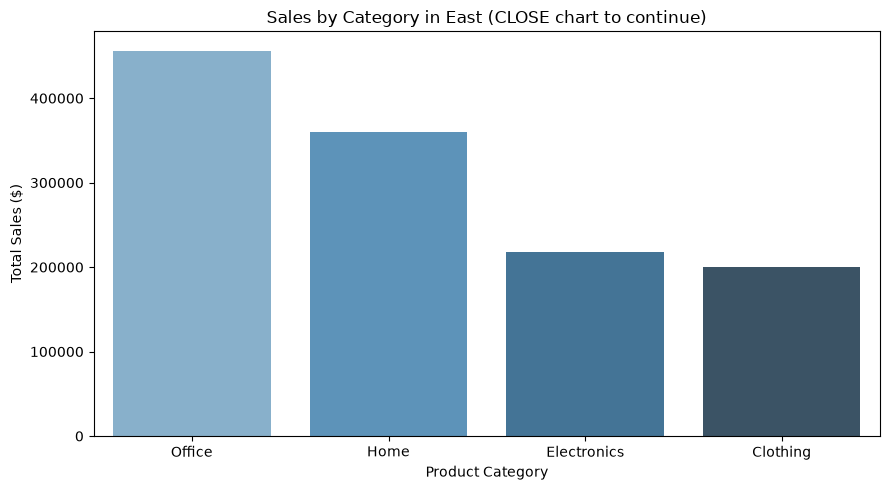
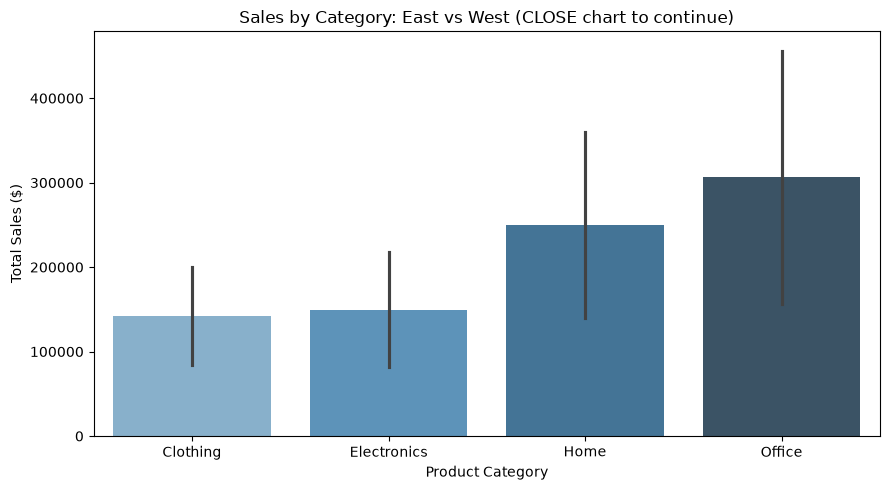
Modify storytelling example to compare two regions

diff --git a/src/bizintel/storytelling_modi_case.py b/src/bizintel/storytelling_modi_case.py
@@ -87,8 +87,8 @@ STORYTELLING_CHART_FILE_2: Final[Path] = (
 
 # The selected region defines the focus of this example story.
 # Your category and selection will depend on the question you have selected.
-SELECTED_REGION: Final[str] = "East"
-
+SELECTED_REGION_1: Final[str] = "East"
+SELECTED_REGION_2: Final[str] = "West"
 
 # === Section 2. Define Reusable Functions ===
 
@@ -188,7 +188,8 @@ def load_reporting_data(file_path: Path) -> pd.DataFrame:
 
 def summarize_category_sales(
     df_reporting: pd.DataFrame,
-    selected_region: str,
+    selected_region_1: str,
+    selected_region_2: str,
 ) -> pd.DataFrame:
     """Summarize total sales by category for the selected region.
 
@@ -202,7 +203,10 @@ def summarize_category_sales(
     Returns:
         DataFrame with Category and TotalSales columns.
     """
-    LOG.info(f"Summarizing category sales for Region = {selected_region!r}")
+    LOG.info(
+        f"Summarizing category sales for Regions = "
+        f"{selected_region_1!r} and {selected_region_2!r}"
+    )
 
     # A slice focuses the analysis on one selected Region value.
     # Create a new DataFrame with only the rows for the selected region.
@@ -210,10 +214,9 @@ def summarize_category_sales(
     # to filter the rows where the "Region" column matches the selected region.
     # Call the .copy() method to create a new DataFrame
     # that is independent of the original.
-    df_region: pd.DataFrame = df_reporting.loc[
-        df_reporting["Region"] == selected_region
+    df_region = df_reporting.loc[
+        df_reporting["Region"].isin([selected_region_1, selected_region_2])
     ].copy()
-
     # If the slice is empty, raise an error to indicate that the selected region
     # we are interested in does not exist in the reporting data.
     # Note: This error message uses an f-string with the
@@ -222,8 +225,8 @@ def summarize_category_sales(
     # more information.
     if df_region.empty:
         raise ValueError(
-            f"No sales were found for region {selected_region!r}. "
-            "Update SELECTED_REGION to a region present in the data."
+            f"No sales were found for regions "
+            f"{selected_region_1!r} and {selected_region_2!r}."
         )
 
     # After filtering to the slice we want to study,
@@ -275,12 +278,9 @@ def summarize_category_sales(
 
     # FOCUS ON THE HUMAN LEVEL SKILLS and
     # use tools to help with the implementation.
-    df_category_sales: pd.DataFrame = (
-        df_region.groupby("Category", as_index=False)
-        .agg(TotalSales=("SaleAmount", "sum"))
-        .sort_values("TotalSales", ascending=False)
+    df_category_sales = df_region.groupby(["Region", "Category"], as_index=False).agg(
+        TotalSales=("SaleAmount", "sum")
     )
-
     # MAKE PRESENTABLE.
     # Round the TotalSales column to two decimal places for better readability.
     # How many digits depends on your data.
@@ -327,7 +327,7 @@ def select_top_category(df_category_sales: pd.DataFrame) -> str:
     #
     # Then, wrap the result in the built in Python method str()
     # to ensure the selected value is stored as a string.
-    top_category: str = str(df_category_sales.iloc[0]["Category"])
+    top_category = df_category_sales.groupby("Category")["TotalSales"].sum().idxmax()
 
     # FINALLY, log key information before exiting the function.
     # In this case, log the selected leading category.
@@ -342,7 +342,8 @@ def select_top_category(df_category_sales: pd.DataFrame) -> str:
 
 def summarize_monthly_sales(
     df_reporting: pd.DataFrame,
-    selected_region: str,
+    selected_region_1: str,
+    selected_region_2: str,
     selected_category: str,
 ) -> pd.DataFrame:
     """Summarize monthly sales for one region and category.
@@ -358,12 +359,15 @@ def summarize_monthly_sales(
     Returns:
         DataFrame with YearMonth and TotalSales columns.
     """
-    LOG.info(f"Summarizing monthly sales for Region = {selected_region!r}")
+    LOG.info(
+        f"Summarizing monthly sales for Regions = "
+        f"{selected_region_1!r} and {selected_region_2!r}"
+    )
     LOG.info(f"Summarizing monthly sales for Category = {selected_category!r}")
 
     # A dice focuses on the selected Region and Category values.
     df_selected: pd.DataFrame = df_reporting.loc[
-        (df_reporting["Region"] == selected_region)
+        (df_reporting["Region"].isin([selected_region_1, selected_region_2]))
         & (df_reporting["Category"] == selected_category)
     ].copy()
 
@@ -400,7 +404,8 @@ def summarize_monthly_sales(
 def identify_key_results(
     df_category_sales: pd.DataFrame,
     df_monthly_sales: pd.DataFrame,
-    selected_region: str,
+    selected_region_1: str,
+    selected_region_2: str,
 ) -> None:
     """Identify and log the key factual results from the analysis.
 
@@ -410,18 +415,24 @@ def identify_key_results(
     limitation, and recommendation in docs/index.md.
 
     Args:
-        df_category_sales: Total sales by category in the selected region.
+        df_category_sales: Total sales by category across the selected regions.
         df_monthly_sales: Monthly sales for the selected leading category.
-        selected_region: Region represented in the analysis.
+        selected_region_1: First region represented in the analysis.
+        selected_region_2: Second region represented in the analysis.
 
     Returns:
         None
     """
     LOG.info("Identifying key results")
-
     # The category results are sorted from greatest to least total sales.
-    top_category: str = str(df_category_sales.iloc[0]["Category"])
-    top_category_sales: float = float(df_category_sales.iloc[0]["TotalSales"])
+    top_category_summary = (
+        df_category_sales.groupby("Category", as_index=False)
+        .agg(TotalSales=("TotalSales", "sum"))
+        .sort_values("TotalSales", ascending=False)
+    )
+
+    top_category: str = str(top_category_summary.iloc[0]["Category"])
+    top_category_sales: float = float(top_category_summary.iloc[0]["TotalSales"])
 
     # Find the month containing the greatest sales value.
     # Call the built-in pandas DataFrame method idxmax() on the TotalSales column
@@ -464,7 +475,7 @@ def identify_key_results(
     # Write the explanation and recommendation in docs/index.md.
     # Include the dollar sign where needed
     # and :, with 0.2f to format the float with two decimal places.
-    LOG.info(f"  Selected region: {selected_region}")
+    LOG.info(f"  Compared regions: {selected_region_1} and {selected_region_2}")
     LOG.info(f"  Leading category: {top_category}")
     LOG.info(f"  Leading category sales: ${top_category_sales:,.2f}")
     LOG.info(f"  Strongest month: {strongest_month}")
@@ -502,9 +513,9 @@ def main() -> None:
     LOG.info("CALL a function to summarize sales by category........")
     df_category_sales = summarize_category_sales(
         df_reporting,
-        SELECTED_REGION,
+        SELECTED_REGION_1,
+        SELECTED_REGION_2,
     )
-
     # STEP 3: USE THE FIRST RESULT TO GUIDE THE NEXT ANALYSIS.
     # Select the leading category instead of choosing an unrelated
     # category before seeing the first result.
@@ -516,7 +527,8 @@ def main() -> None:
     LOG.info("CALL a function to summarize monthly sales........")
     df_monthly_sales = summarize_monthly_sales(
         df_reporting,
-        SELECTED_REGION,
+        SELECTED_REGION_1,
+        SELECTED_REGION_2,
         top_category,
     )
 
@@ -528,7 +540,7 @@ def main() -> None:
         df=df_category_sales,
         x="Category",
         y="TotalSales",
-        title=f"Sales by Category in {SELECTED_REGION}",
+        title=f"Sales by Category: {SELECTED_REGION_1} vs {SELECTED_REGION_2}",
         xlabel="Product Category",
         ylabel="Total Sales ($)",
         palette="Blues_d",
@@ -541,7 +553,7 @@ def main() -> None:
         df=df_monthly_sales,
         x="YearMonth",
         y="TotalSales",
-        title=f"Monthly {top_category} Sales in {SELECTED_REGION}",
+        title=f"Monthly {top_category} Sales: {SELECTED_REGION_1} vs {SELECTED_REGION_2}",
         xlabel="Month",
         ylabel="Total Sales ($)",
     )
@@ -555,7 +567,8 @@ def main() -> None:
     identify_key_results(
         df_category_sales,
         df_monthly_sales,
-        SELECTED_REGION,
+        SELECTED_REGION_1,
+        SELECTED_REGION_2,
     )
 
     LOG.info("CALL a function to show charts........")
